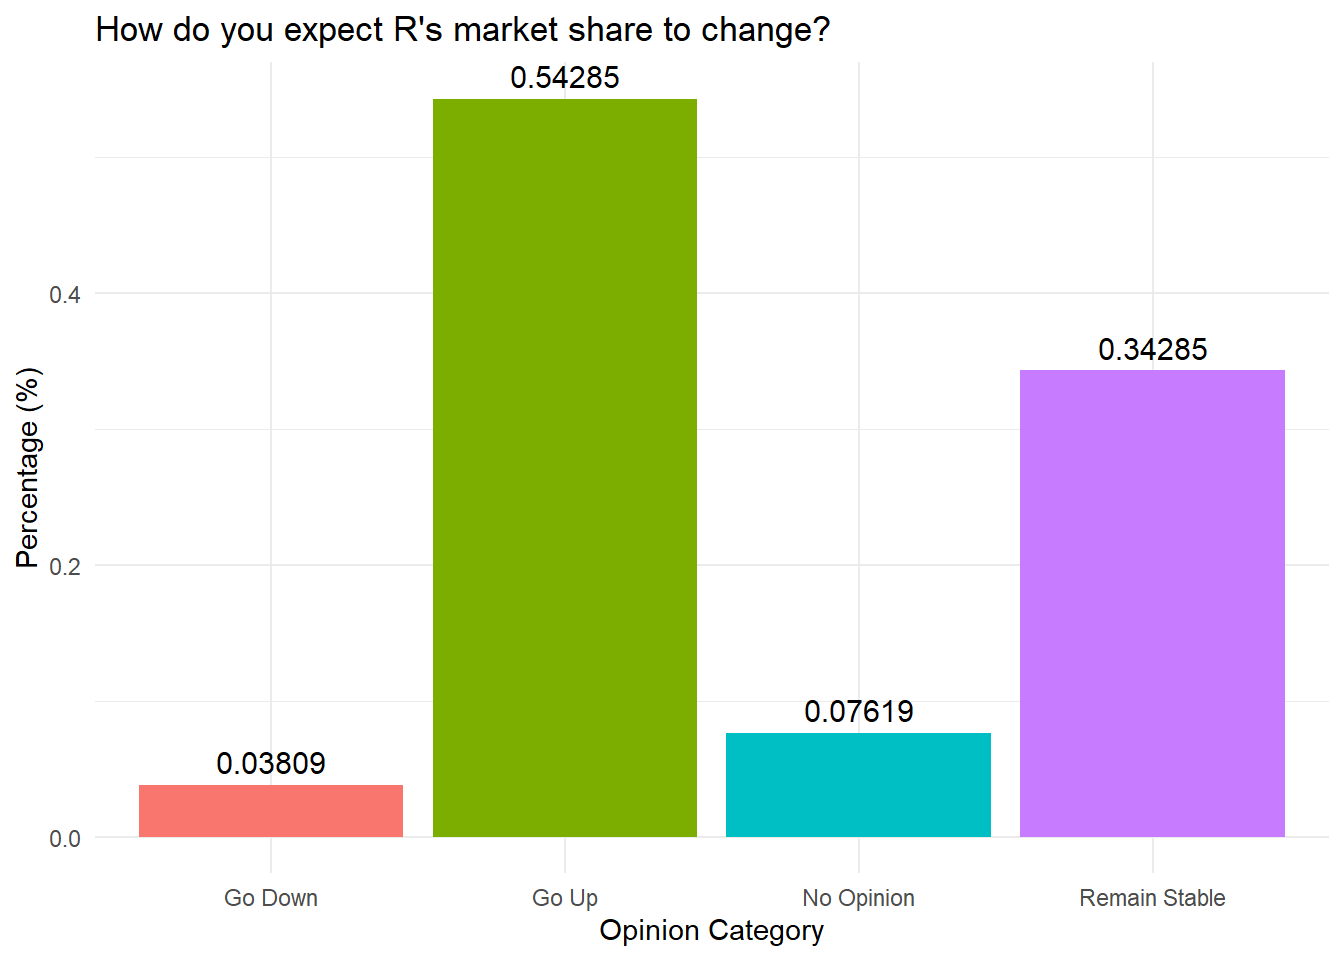
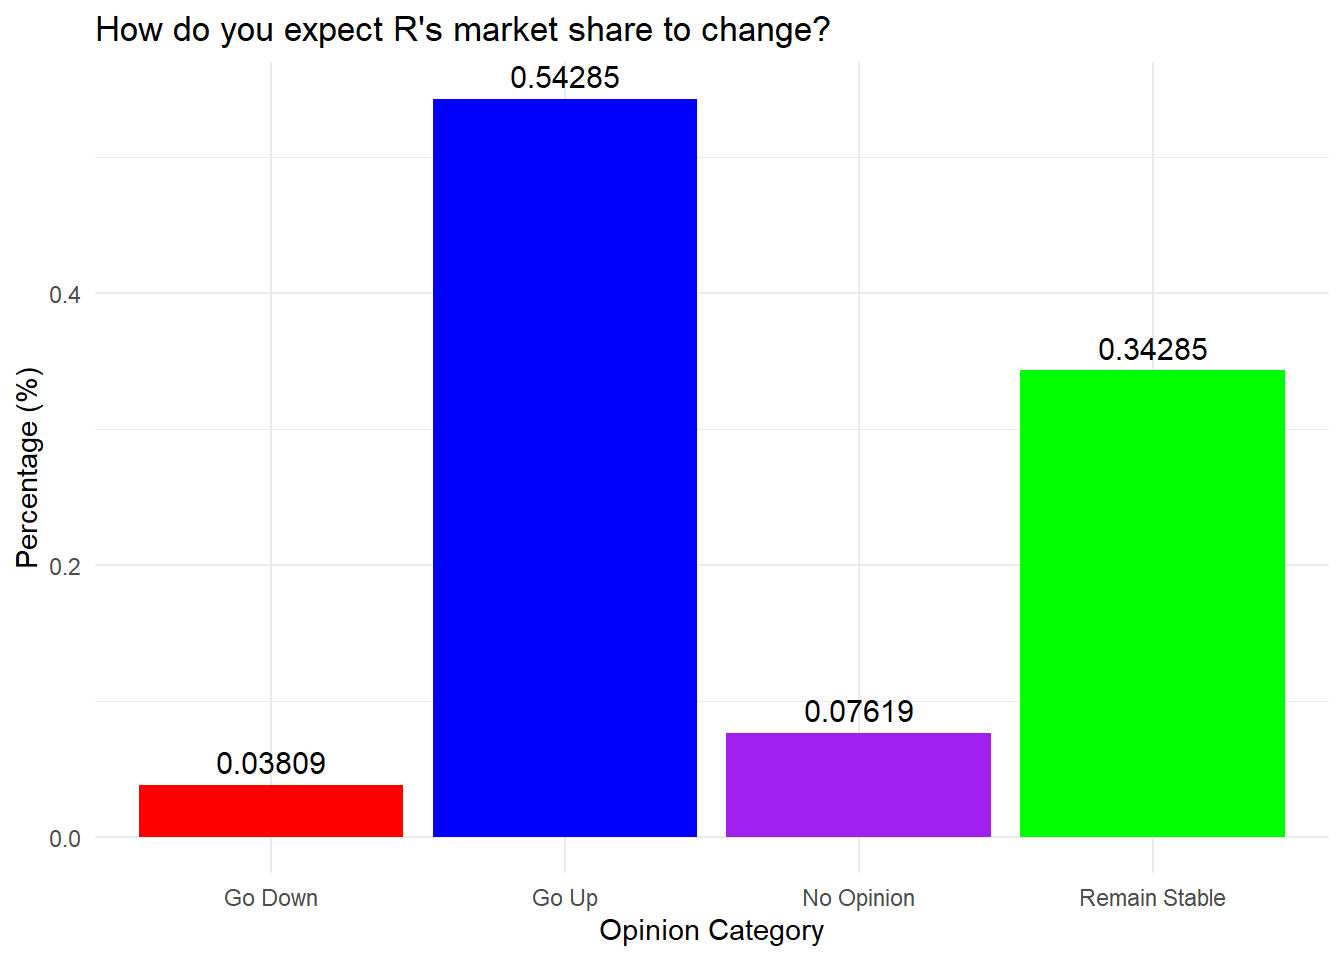
Update Viz

Changed region(s): [[0.0938, 0.0938, 0.9688, 0.875]]

diff --git a/docs/dataviz.html b/docs/dataviz.html
@@ -423,6 +423,18 @@ window.Quarto = {
 <li>Additional layers: labs - for labels including titles; themes; and geom_text. Recreate the example below adding one layer at a time to see how the visualization changes.</li>
 </ul></li>
 </ul>
+</section>
+<section id="pertinent-parameters-to-the-geom_bar" class="level4" data-number="5.2.1.2">
+<h4 data-number="5.2.1.2" class="anchored" data-anchor-id="pertinent-parameters-to-the-geom_bar"><span class="header-section-number">5.2.1.2</span> Pertinent Parameters to the geom_bar()</h4>
+<ul>
+<li><strong>stat=“identity”</strong>: In ggplot2, the argument <em>stat=“identity”</em> is used inside the geom_bar when creating bar charts to specify that the actual values of the data should be plotted, rather than calculated summary statistics. By default, ggplot assumes that bar charts use stat=“count”, which counts the number of observations in each category. When you want to display the actual values in your dataset (e.g., sales numbers, average scores), you need to set stat=“identity” to ensure that the y-values are mapped directly from the data rather than being automatically counted.</li>
+<li>You only need to specify <em>stat=“identity”</em> if you have pre-calculated values to use in the barplot. In the example below, we do have pre-calculated numbers going into make the chart, so stat=“identity” is used. Here, we are using exact values, but we can also compute a dataset before graphing using a group_by() and a variety of counting function.</li>
+<li><strong>position=“dodge”</strong>: If we have more than one categorical variable, we might set the <em>position=“dodge”</em> argument. This argument controls how the bars are positioned relative to each other when you are plotting multiple categories within a bar chart. By default, bars in a grouped bar chart might overlap, but setting position=“dodge” ensures that they are placed side-by-side. This is particularly useful when you are comparing multiple groups or categories within the same plot, as it allows for a clear visual distinction between each group. In the example below, we only have one variable, so position=“dodge” argument is not needed.<br>
+</li>
+<li>In combination, using <em>stat=“identity”</em> and <em>position=“dodge”</em> is common when you want to compare different categories or groups with specific values in a side-by-side manner, ensuring the chart is easy to interpret. For example, if you are comparing sales figures across different products for multiple years, this approach would give you a bar for each product in each year, clearly separated.</li>
+<li><strong>show.legend = FALSE</strong>: In ggplot2, the argument <em>show.legend = FALSE</em> is used to hide the legend for a particular layer or the entire plot. By default, ggplot2 automatically adds a legend if you include aesthetics like color, size, or shape that distinguish groups in your data. If you don’t want the legend to appear, you can set show.legend = FALSE.</li>
+<li><strong>scale_fill_manual():</strong> When creating grouped bar charts or other plots with multiple categories, it’s important to ensure that the visual distinction between groups is clear. This is where manually setting the colors for each category comes into play. The <em>scale_fill_manual()</em> function in ggplot2 allows you to manually define the colors used for the filled areas, such as the bars in a bar chart or the shaded areas in an area chart. By using the values argument within scale_fill_manual(), you can specify a custom color palette that suits your design or presentation needs. For example, you might choose a palette of yellow and brown to represent different categories. A key aspect of using scale_fill_manual() effectively is knowing how many colors to provide. The number of colors you define in the values argument must match the number of levels or categories in your data. If you are comparing three product categories, for instance, you’ll need to provide exactly three colors—one for each category. Failing to match the number of colors to the number of categories can result in errors or misrepresentation in the plot. For example, if you have four levels (e.g., four different product categories or groups) and only provide two colors, ggplot may not know how to properly assign colors to the additional categories. Therefore, it’s crucial to know the number of distinct categories in your data and plan your color palette accordingly to maintain clarity and visual consistency in your chart.</li>
+</ul>
 <div class="cell">
 <div class="sourceCode cell-code" id="cb3"><pre class="sourceCode r code-with-copy"><code class="sourceCode r"><span id="cb3-1"><a href="#cb3-1" aria-hidden="true" tabindex="-1"></a><span class="do">## inputting probabilities calculated from a 2023 multiple choice</span></span>
 <span id="cb3-2"><a href="#cb3-2" aria-hidden="true" tabindex="-1"></a><span class="do">## question.  From what you learned about R so far, how do you expect</span></span>
@@ -438,8 +450,10 @@ window.Quarto = {
 <span id="cb3-12"><a href="#cb3-12" aria-hidden="true" tabindex="-1"></a>MarketShare <span class="ot">&lt;-</span> <span class="fu">ggplot</span>(data_frame, <span class="fu">aes</span>(<span class="at">x =</span> Category, <span class="at">y =</span> Percentage, <span class="at">fill =</span> Category)) <span class="sc">+</span></span>
 <span id="cb3-13"><a href="#cb3-13" aria-hidden="true" tabindex="-1"></a>    <span class="fu">geom_bar</span>(<span class="at">stat =</span> <span class="st">"identity"</span>, <span class="at">show.legend =</span> <span class="cn">FALSE</span>) <span class="sc">+</span> <span class="fu">labs</span>(<span class="at">title =</span> <span class="st">"How do you expect R's market share to change?"</span>,</span>
 <span id="cb3-14"><a href="#cb3-14" aria-hidden="true" tabindex="-1"></a>    <span class="at">x =</span> <span class="st">"Opinion Category"</span>, <span class="at">y =</span> <span class="st">"Percentage (%)"</span>) <span class="sc">+</span> <span class="fu">theme_minimal</span>() <span class="sc">+</span> <span class="fu">geom_text</span>(<span class="fu">aes</span>(<span class="at">label =</span> Percentage),</span>
-<span id="cb3-15"><a href="#cb3-15" aria-hidden="true" tabindex="-1"></a>    <span class="at">vjust =</span> <span class="sc">-</span><span class="fl">0.5</span>, <span class="at">size =</span> <span class="dv">4</span>)</span>
-<span id="cb3-16"><a href="#cb3-16" aria-hidden="true" tabindex="-1"></a>MarketShare</span></code><button title="Copy to Clipboard" class="code-copy-button"><i class="bi"></i></button></pre></div>
+<span id="cb3-15"><a href="#cb3-15" aria-hidden="true" tabindex="-1"></a>    <span class="at">vjust =</span> <span class="sc">-</span><span class="fl">0.5</span>, <span class="at">size =</span> <span class="dv">4</span>) <span class="sc">+</span> <span class="fu">scale_fill_manual</span>(<span class="at">values =</span> <span class="fu">c</span>(<span class="st">"red"</span>, <span class="st">"blue"</span>,</span>
+<span id="cb3-16"><a href="#cb3-16" aria-hidden="true" tabindex="-1"></a>    <span class="st">"purple"</span>, <span class="st">"green"</span>))</span>
+<span id="cb3-17"><a href="#cb3-17" aria-hidden="true" tabindex="-1"></a></span>
+<span id="cb3-18"><a href="#cb3-18" aria-hidden="true" tabindex="-1"></a>MarketShare</span></code><button title="Copy to Clipboard" class="code-copy-button"><i class="bi"></i></button></pre></div>
 <div class="cell-output-display">
 <div>
 <figure class="figure">
@@ -453,9 +467,9 @@ window.Quarto = {
 <section id="bar-graph-with-data-wrangling" class="level3" data-number="5.2.2">
 <h3 data-number="5.2.2" class="anchored" data-anchor-id="bar-graph-with-data-wrangling"><span class="header-section-number">5.2.2</span> Bar Graph with Data Wrangling</h3>
 <ul>
-<li>We can also use a dataset to make a bar graph.<br>
+<li>Let’s start an example from scratch so that we can see each parameter take effect. In doing so, lets use a dataset to make a bar graph instead of relying on pre-calculated data.<br>
 </li>
-<li>Load the Gun related data from the nhanes survey to run an example.</li>
+<li>Lets examine the AUQ300 variable from the nhanes survey to run an example.</li>
 </ul>
 <div class="cell">
 <div class="sourceCode cell-code" id="cb4"><pre class="sourceCode r code-with-copy"><code class="sourceCode r"><span id="cb4-1"><a href="#cb4-1" aria-hidden="true" tabindex="-1"></a>nhanes <span class="ot">&lt;-</span> <span class="fu">read.csv</span>(<span class="st">"data/nhanes2012.csv"</span>)</span></code><button title="Copy to Clipboard" class="code-copy-button"><i class="bi"></i></button></pre></div>
@@ -497,16 +511,19 @@ window.Quarto = {
 </ul>
 <div class="cell">
 <div class="sourceCode cell-code" id="cb8"><pre class="sourceCode r code-with-copy"><code class="sourceCode r"><span id="cb8-1"><a href="#cb8-1" aria-hidden="true" tabindex="-1"></a>nhanes.clean <span class="ot">&lt;-</span> nhanes <span class="sc">%&gt;%</span></span>
-<span id="cb8-2"><a href="#cb8-2" aria-hidden="true" tabindex="-1"></a>    <span class="fu">mutate</span>(<span class="at">AUQ300 =</span> <span class="fu">recode_factor</span>(AUQ300, <span class="st">`</span><span class="at">1</span><span class="st">`</span> <span class="ot">=</span> <span class="st">"Yes"</span>, <span class="st">`</span><span class="at">2</span><span class="st">`</span> <span class="ot">=</span> <span class="st">"No"</span>))</span></code><button title="Copy to Clipboard" class="code-copy-button"><i class="bi"></i></button></pre></div>
+<span id="cb8-2"><a href="#cb8-2" aria-hidden="true" tabindex="-1"></a>    <span class="fu">select</span>(AUQ300) <span class="sc">%&gt;%</span></span>
+<span id="cb8-3"><a href="#cb8-3" aria-hidden="true" tabindex="-1"></a>    <span class="fu">mutate</span>(<span class="at">AUQ300 =</span> <span class="fu">recode_factor</span>(AUQ300, <span class="st">`</span><span class="at">1</span><span class="st">`</span> <span class="ot">=</span> <span class="st">"Yes"</span>, <span class="st">`</span><span class="at">2</span><span class="st">`</span> <span class="ot">=</span> <span class="st">"No"</span>))</span></code><button title="Copy to Clipboard" class="code-copy-button"><i class="bi"></i></button></pre></div>
 </div>
 <ul>
 <li>Then, we need to check the recode for accuracy. You should see the No’s and Yes’s alongside the rest being coded as NA’s.</li>
 </ul>
 <div class="cell">
-<div class="sourceCode cell-code" id="cb9"><pre class="sourceCode r code-with-copy"><code class="sourceCode r"><span id="cb9-1"><a href="#cb9-1" aria-hidden="true" tabindex="-1"></a><span class="fu">summary</span>(nhanes.clean<span class="sc">$</span>AUQ300)</span></code><button title="Copy to Clipboard" class="code-copy-button"><i class="bi"></i></button></pre></div>
+<div class="sourceCode cell-code" id="cb9"><pre class="sourceCode r code-with-copy"><code class="sourceCode r"><span id="cb9-1"><a href="#cb9-1" aria-hidden="true" tabindex="-1"></a><span class="fu">summary</span>(nhanes.clean)</span></code><button title="Copy to Clipboard" class="code-copy-button"><i class="bi"></i></button></pre></div>
 <div class="cell-output cell-output-stdout">
-<pre><code> Yes   No NA's 
-1613 3061 4690 </code></pre>
+<pre><code>  AUQ300    
+ Yes :1613  
+ No  :3061  
+ NA's:4690  </code></pre>
 </div>
 </div>
 </section>
@@ -864,7 +881,7 @@ window.Quarto = {
 </ul></li>
 </ul>
 <div class="cell">
-<div class="sourceCode cell-code" id="cb28"><pre class="sourceCode r code-with-copy"><code class="sourceCode r"><span id="cb28-1"><a href="#cb28-1" aria-hidden="true" tabindex="-1"></a><span class="fu">ggplot</span>(df, <span class="fu">aes</span>(x)) <span class="sc">+</span> <span class="fu">geom_density</span>(<span class="at">color =</span> <span class="st">"darkblue"</span>, <span class="at">lwd =</span> <span class="dv">3</span>)</span></code><button title="Copy to Clipboard" class="code-copy-button"><i class="bi"></i></button></pre></div>
+<div class="sourceCode cell-code" id="cb28"><pre class="sourceCode r code-with-copy"><code class="sourceCode r"><span id="cb28-1"><a href="#cb28-1" aria-hidden="true" tabindex="-1"></a><span class="fu">ggplot</span>(df, <span class="fu">aes</span>(x)) <span class="sc">+</span> <span class="fu">geom_density</span>(<span class="at">color =</span> <span class="st">"darkblue"</span>, <span class="at">lwd =</span> <span class="dv">2</span>)</span></code><button title="Copy to Clipboard" class="code-copy-button"><i class="bi"></i></button></pre></div>
 <div class="cell-output-display">
 <div>
 <figure class="figure">
@@ -1347,13 +1364,6 @@ TRUE </code></pre>
 <li>Grouped</li>
 <li>Stacked</li>
 </ul></li>
-<li>Pertinent Parameters to the geom_bar()
-<ul>
-<li>In ggplot2, the argument stat=“identity” is used when creating bar charts to specify that the actual values of the data should be plotted, rather than calculated summary statistics. By default, ggplot assumes that bar charts use stat=“count”, which counts the number of observations in each category. When you want to display the actual values in your dataset (e.g., sales numbers, average scores), you need to set stat=“identity” to ensure that the y-values are mapped directly from the data rather than being automatically counted.</li>
-<li>You only need to specify stat=“identity” if you have pre-calculated values to use in the barplot.</li>
-<li>The position=“dodge” argument controls how the bars are positioned relative to each other when you are plotting multiple categories within a bar chart. By default, bars in a grouped bar chart might overlap, but setting position=“dodge” ensures that they are placed side-by-side. This is particularly useful when you are comparing multiple groups or categories within the same plot, as it allows for a clear visual distinction between each group.</li>
-<li>In combination, using stat=“identity” and position=“dodge” is common when you want to compare different categories or groups with specific values in a side-by-side manner, ensuring the chart is easy to interpret. For example, if you are comparing sales figures across different products for multiple years, this approach would give you a bar for each product in each year, clearly separated.</li>
-</ul></li>
 </ul>
 <div class="cell">
 <div class="cell-output cell-output-stdout">
@@ -1475,10 +1485,7 @@ TRUE </code></pre>
 </div>
 </div>
 <ul>
-<li><p>When creating grouped bar charts or other plots with multiple categories, it’s important to ensure that the visual distinction between groups is clear. This is where manually setting the colors for each category comes into play. The <em>scale_fill_manual()</em> function in ggplot2 allows you to manually define the colors used for the filled areas, such as the bars in a bar chart or the shaded areas in an area chart. By using the values argument within scale_fill_manual(), you can specify a custom color palette that suits your design or presentation needs. For example, you might choose a palette of yellow and brown to represent different categories.</p></li>
-<li><p>However, a key aspect of using scale_fill_manual() effectively is knowing how many colors to provide. The number of colors you define in the values argument must match the number of levels or categories in your data. If you are comparing three product categories, for instance, you’ll need to provide exactly three colors—one for each category. Failing to match the number of colors to the number of categories can result in errors or misrepresentation in the plot.</p></li>
-<li><p>For example, if you have four levels (e.g., four different product categories or groups) and only provide two colors, ggplot may not know how to properly assign colors to the additional categories. Therefore, it’s crucial to know the number of distinct categories in your data and plan your color palette accordingly to maintain clarity and visual consistency in your chart.</p></li>
-<li><p>Below, we can add color using the scale_fill_manual. Since there are two colors, we use the c() command to combine them together inside the layer.</p></li>
+<li>Below, we can add color using the scale_fill_manual. Since there are two colors, we use the c() command to combine them together inside the layer.</li>
 </ul>
 <div class="cell">
 <div class="sourceCode cell-code" id="cb113"><pre class="sourceCode r code-with-copy"><code class="sourceCode r"><span id="cb113-1"><a href="#cb113-1" aria-hidden="true" tabindex="-1"></a><span class="fu">ggplot</span>(avg_mpg, <span class="fu">aes</span>(gear, mpg, <span class="at">fill =</span> vs)) <span class="sc">+</span> <span class="fu">geom_bar</span>(<span class="at">stat =</span> <span class="st">"identity"</span>,</span>
